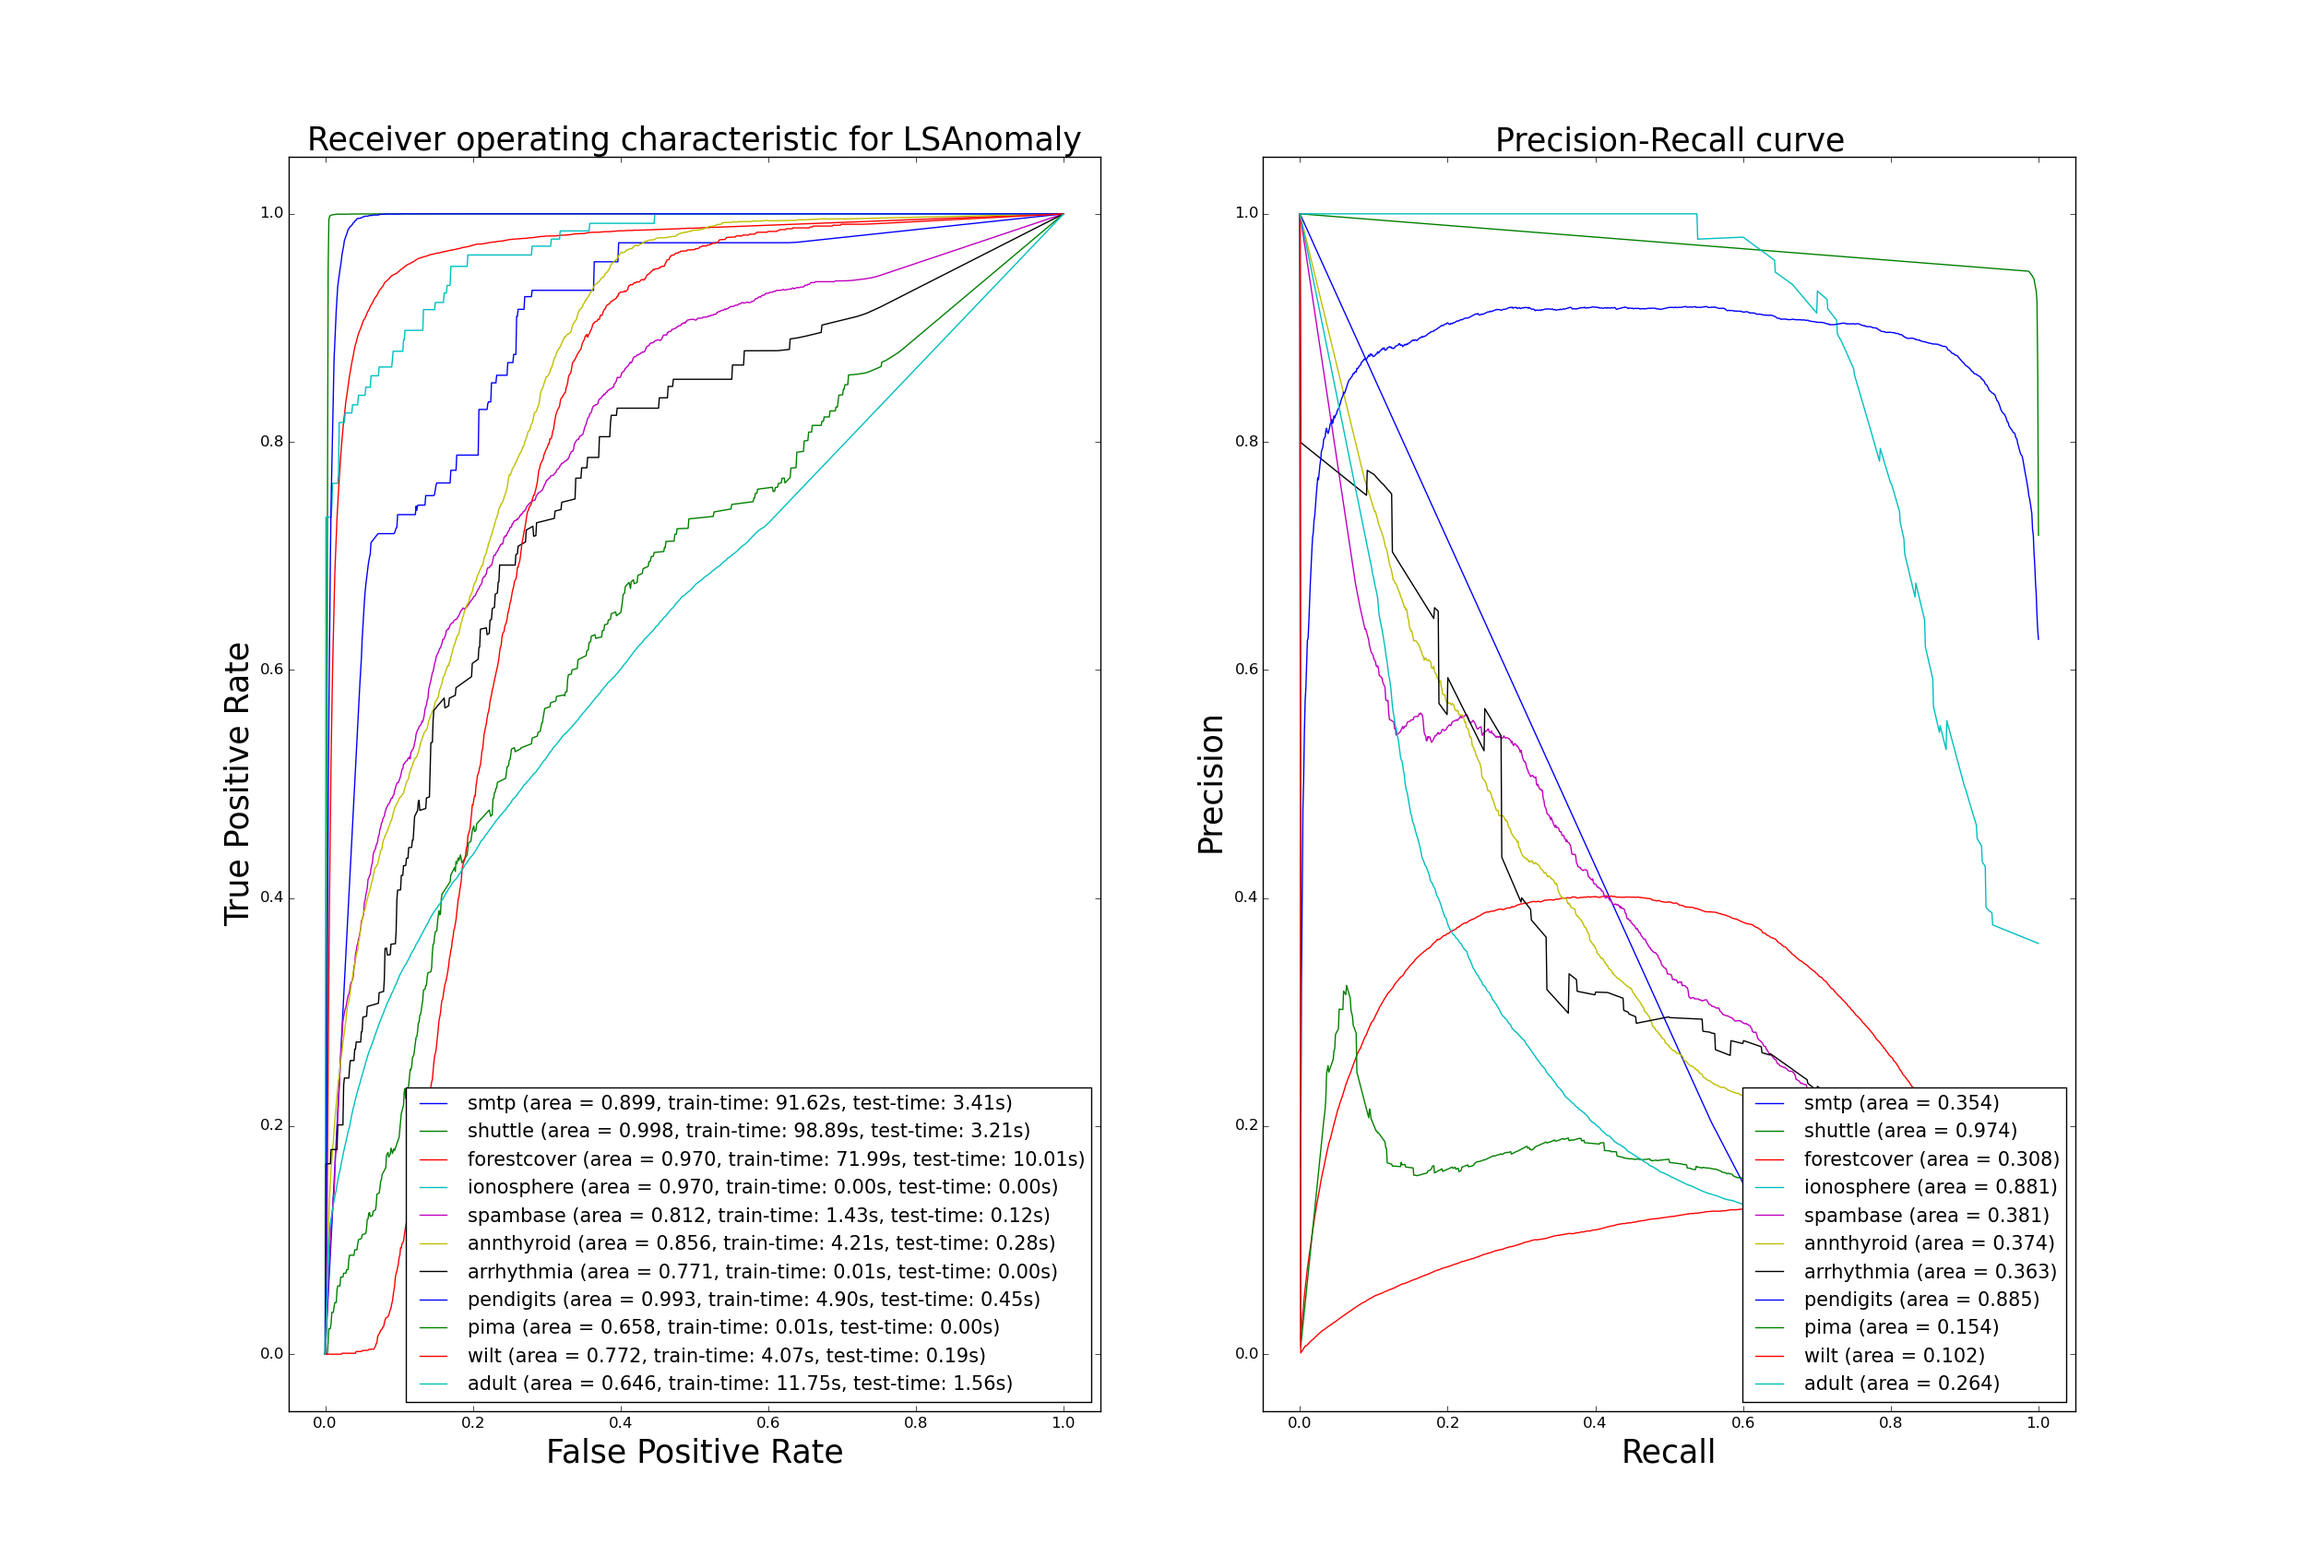
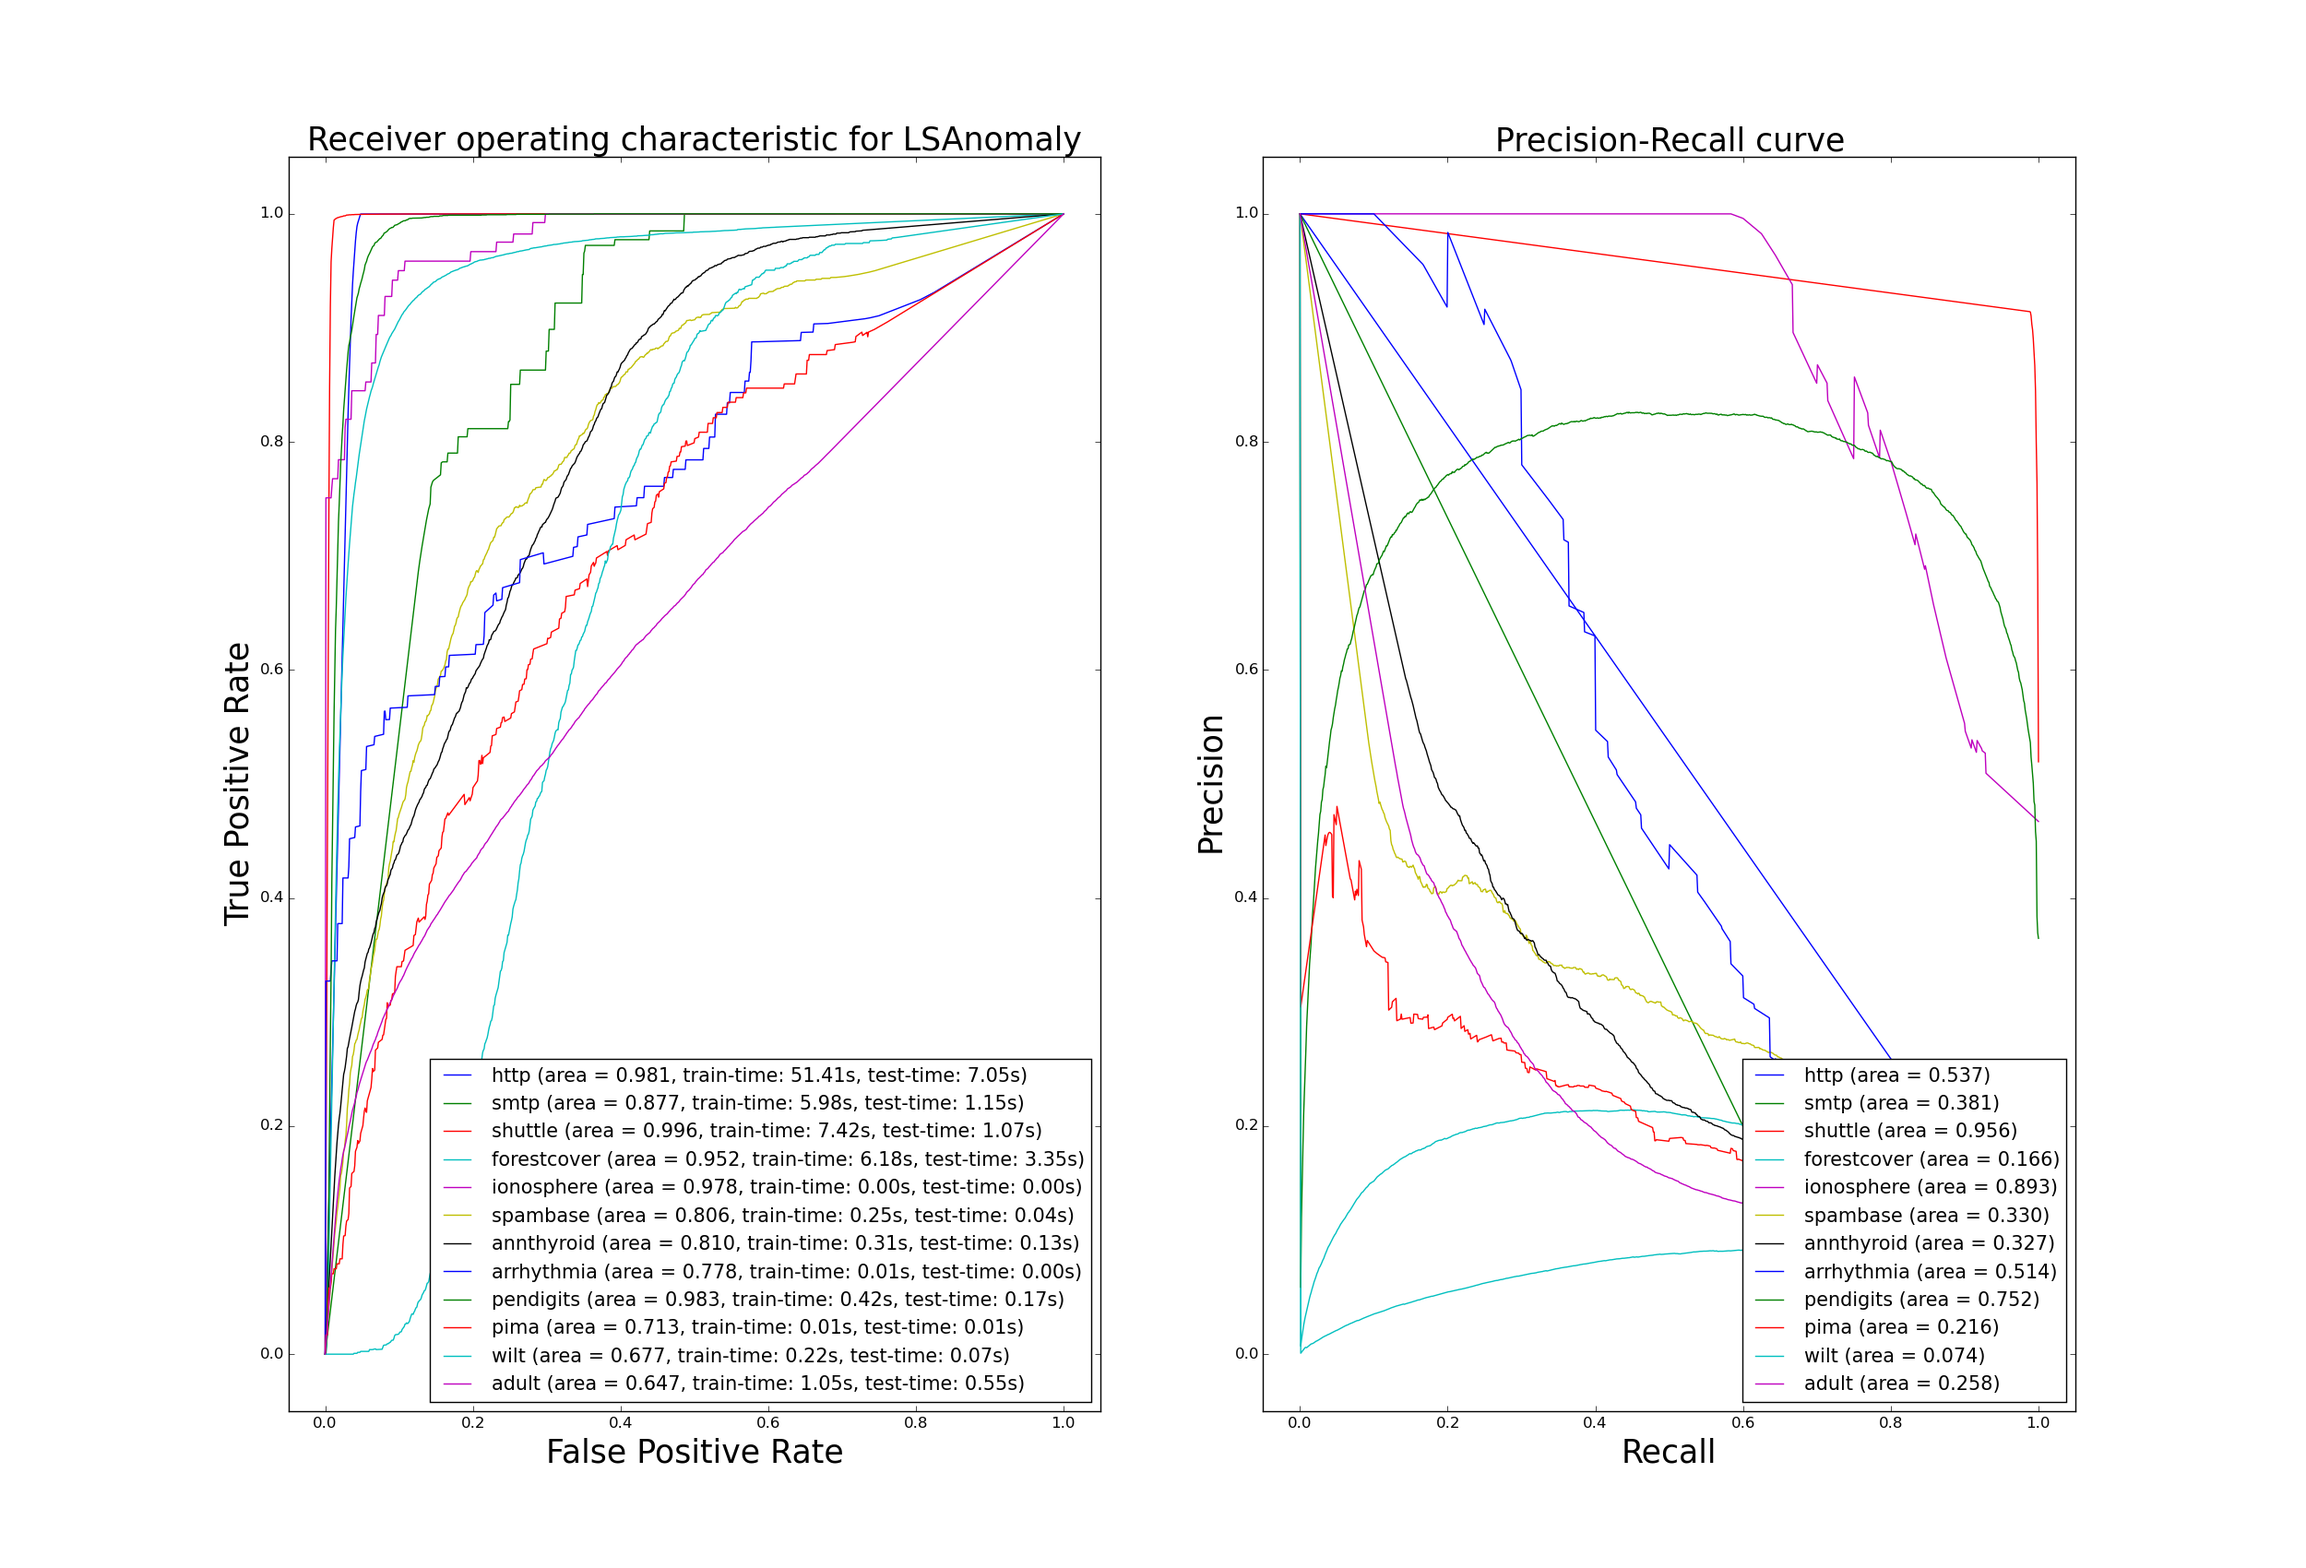
up last result

diff --git a/benchmarks/bench_lsanomaly.py b/benchmarks/bench_lsanomaly.py
@@ -83,9 +83,9 @@ for dat in datasets:
             print('LSAnomaly processing...')
             model = LSAnomaly()
 
-            # # training only on normal data: (not supported in cv)
-            # X_train = X_train[y_train == 0]
-            # y_train = y_train[y_train == 0]
+            # training only on normal data: (not supported in cv)
+            X_train = X_train[y_train == 0]
+            y_train = y_train[y_train == 0]
 
             tstart = time()
             model.fit(X_train)
@@ -144,4 +144,4 @@ for dat in datasets:
     plt.title('Precision-Recall curve', fontsize=25)
     plt.legend(loc="lower right", prop={'size': 15})
 
-plt.savefig('results_ocrf/bench_LSAnomaly_roc_pr_unsupervised_factorized')
+plt.savefig('results_ocrf/bench_LSAnomaly_roc_pr_supervised_factorized')
